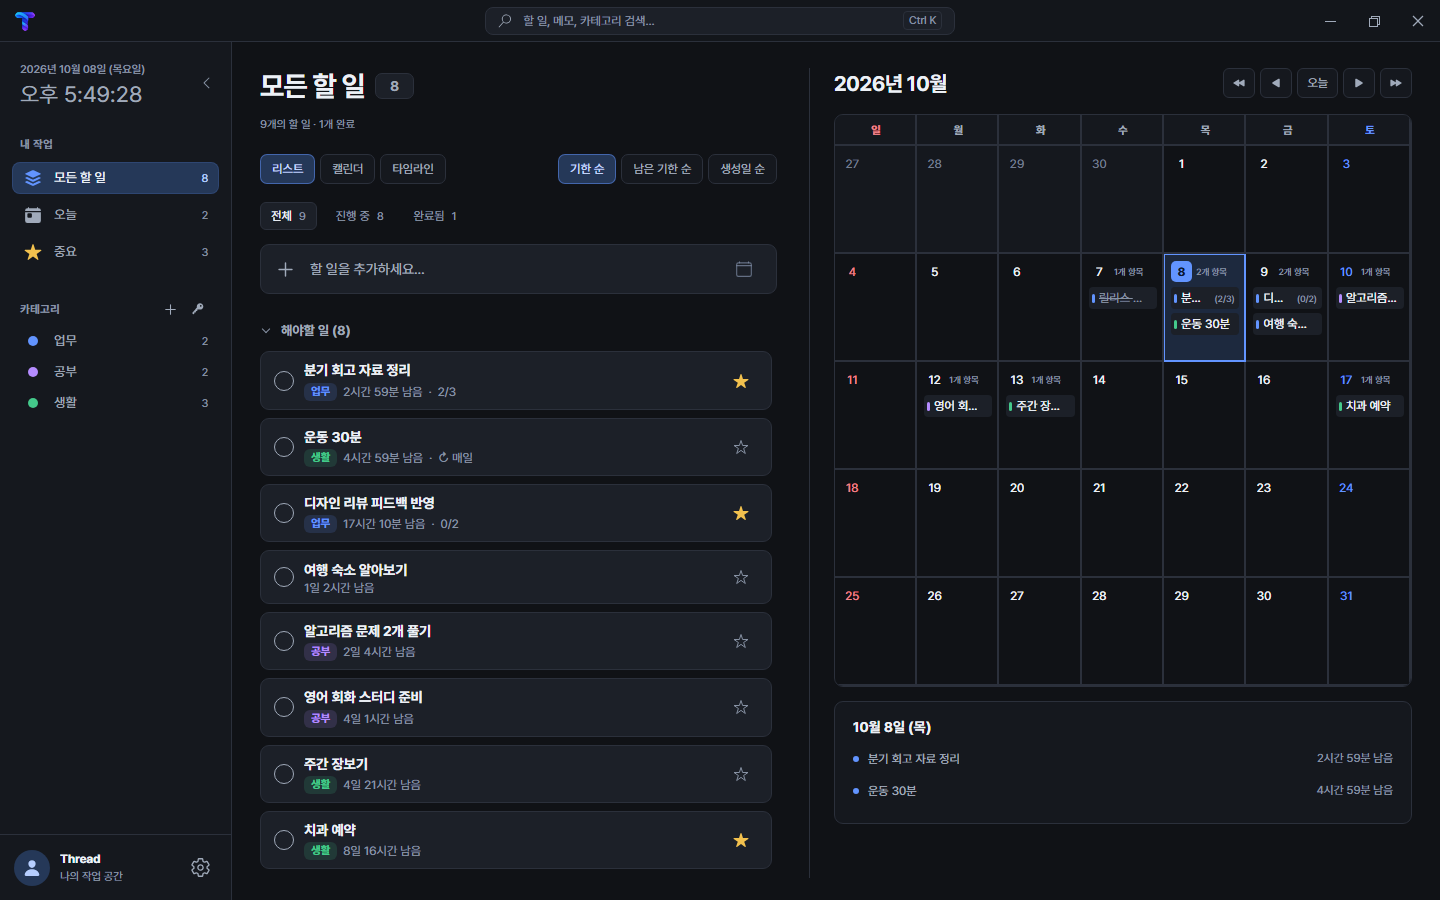
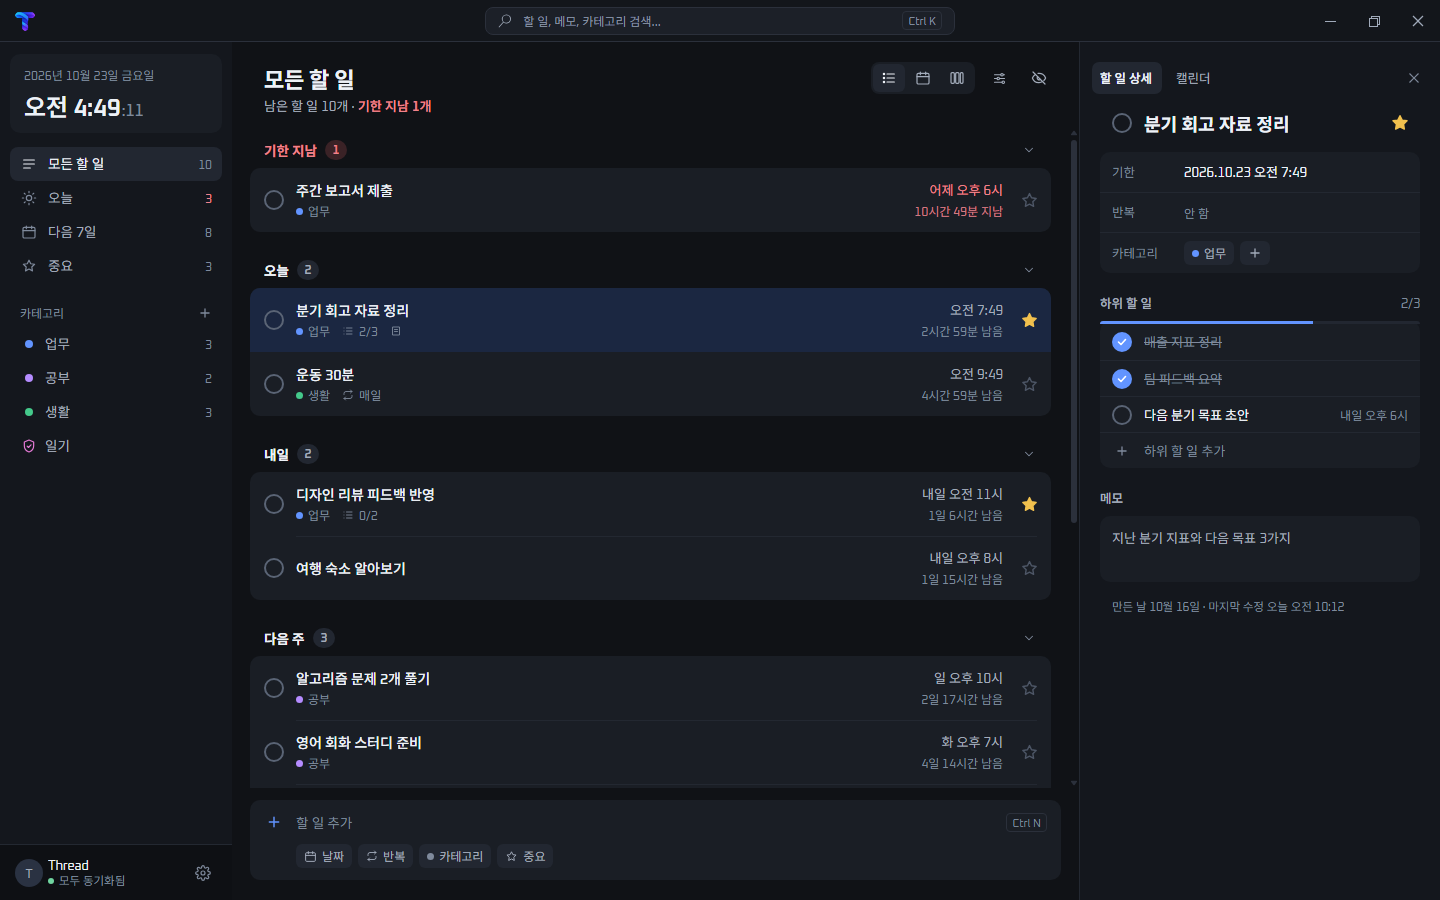
release(desktop): 2.2.0 with the redesigned main screen
Patch notes for 2.2.0 and the landing page preview of the new main
screen (synthetic data) with updated feature copy.

diff --git a/apps/web/site/src/pages/Landing.js b/apps/web/site/src/pages/Landing.js
@@ -3,8 +3,8 @@ import { formatSize, useLatestRelease } from "../release";
 
 const FEATURES = [
   {
-    title: "리스트·캘린더·타임라인",
-    body: "같은 할 일을 목록, 달력, 시간 흐름으로 바꿔 보며 오늘 할 일과 이번 달 일정을 한눈에 확인해요.",
+    title: "목록·캘린더·타임라인",
+    body: "날짜별로 묶은 목록, 달력, 시간 흐름으로 바꿔 보며 오늘과 이번 주 할 일을 한눈에 확인해요.",
     icon: <path d="M4 5h16M4 12h16M4 19h10" />,
   },
   {
@@ -19,7 +19,7 @@ const FEATURES = [
   },
   {
     title: "빠른 검색",
-    body: "Ctrl K로 할 일, 메모, 카테고리를 바로 찾아요.",
+    body: "Ctrl K로 모든 할 일의 제목, 메모, 카테고리를 바로 찾아요.",
     icon: <><circle cx="11" cy="11" r="6" /><path d="M20 20l-4.5-4.5" /></>,
   },
 ];
@@ -85,7 +85,7 @@ export default function Landing() {
         </div>
         <div className="container">
           <figure className="screenshot">
-            <img src={appScreenshot} width="1440" height="900" alt="Thread 메인 화면: 왼쪽 카테고리, 가운데 할 일 목록, 오른쪽 월간 캘린더" />
+            <img src={appScreenshot} width="1440" height="900" alt="Thread 메인 화면: 왼쪽 메뉴와 카테고리, 가운데 날짜별 할 일 목록, 오른쪽 할 일 상세" />
           </figure>
         </div>
       </section>
